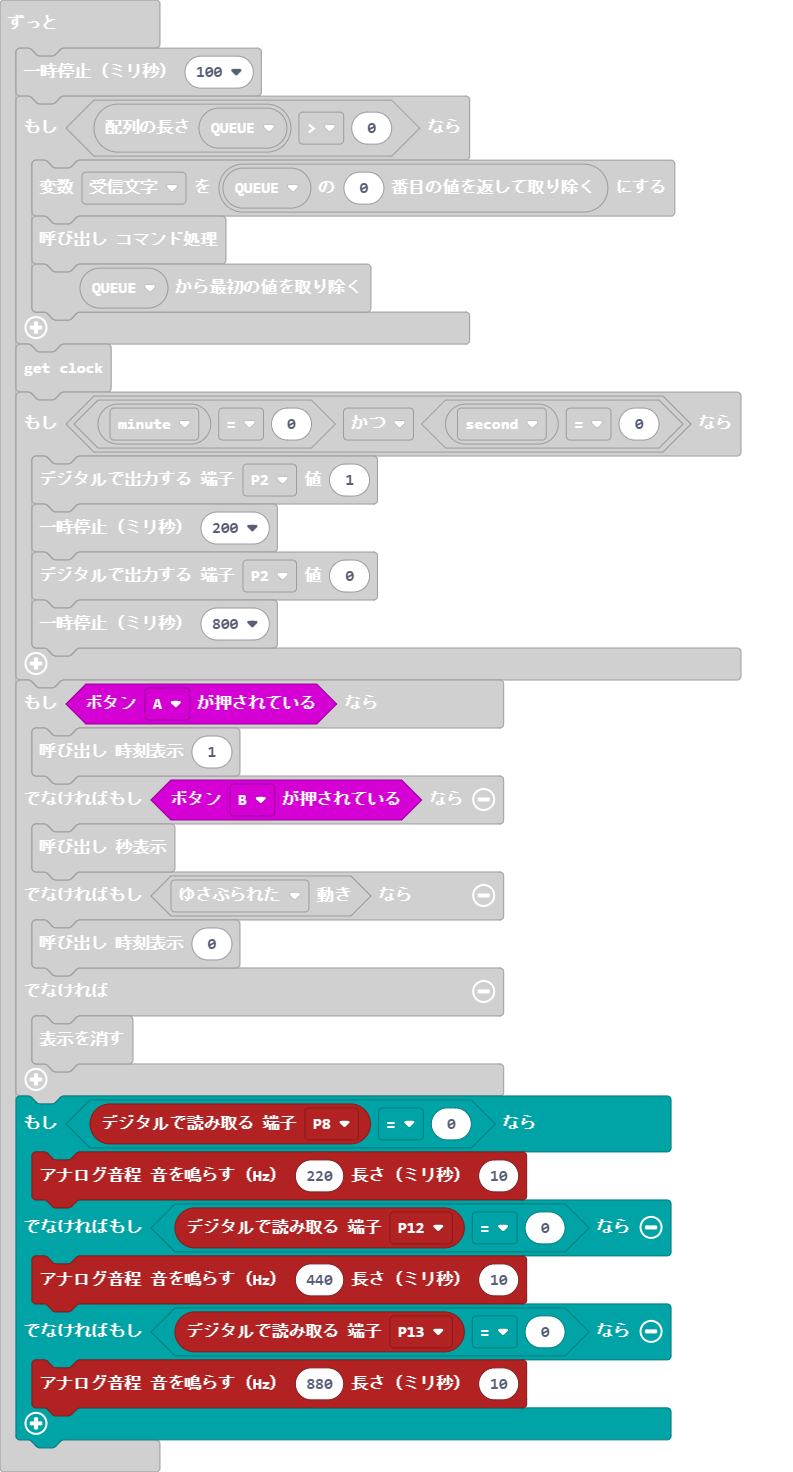
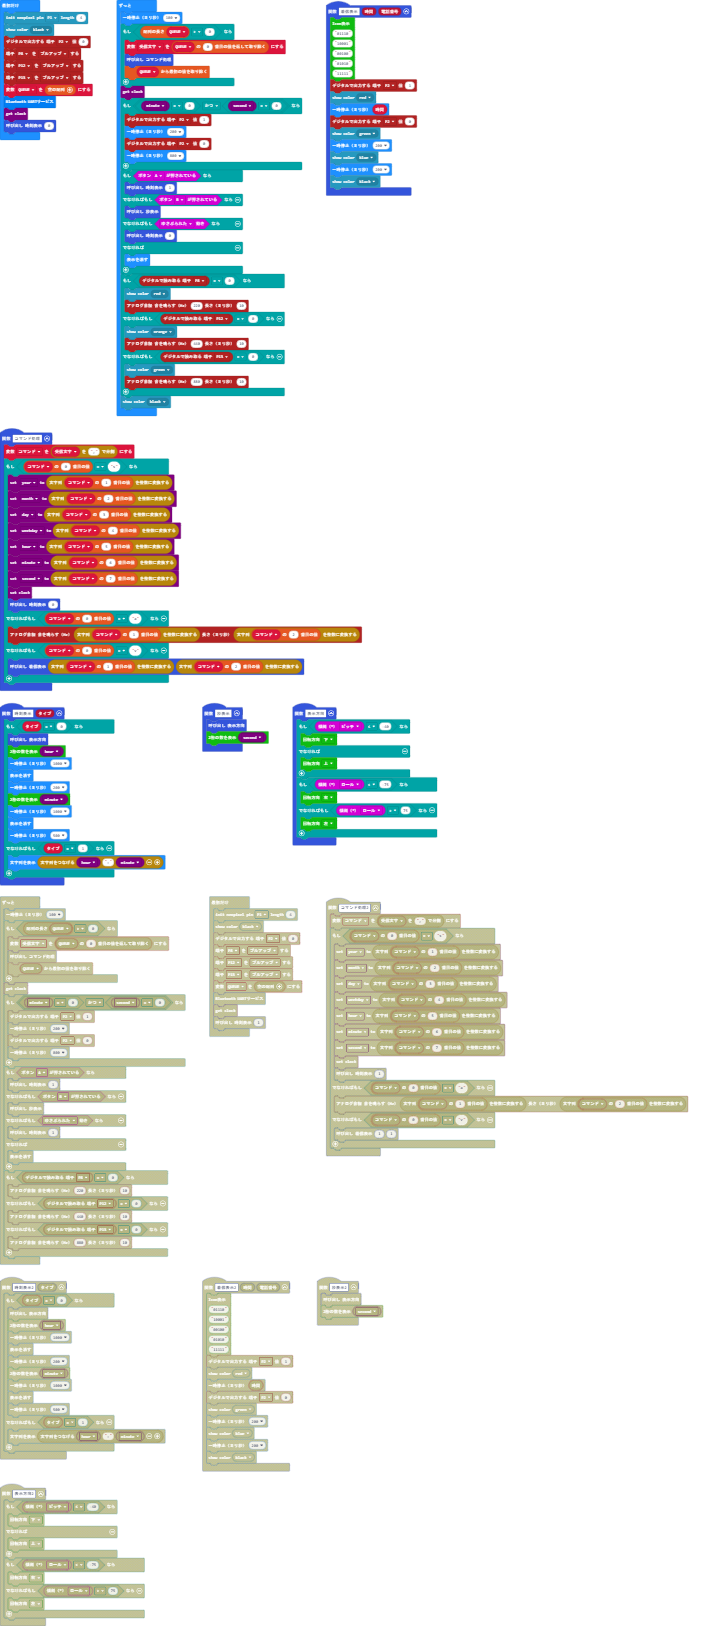
更新 pxt.json, main.blocks, main.ts

diff --git a/main.ts b/main.ts
@@ -22,14 +22,14 @@ bluetooth.onUartDataReceived(serial.delimiters(Delimiters.NewLine), function () 
 function コマンド処理 () {
     コマンド = 受信文字.split(",")
     if (コマンド[0] == "s") {
-        rtc.setClockData(clockData.year, parseInt(コマンド[1]))
-        rtc.setClockData(clockData.month, parseInt(コマンド[2]))
-        rtc.setClockData(clockData.day, parseInt(コマンド[3]))
-        rtc.setClockData(clockData.weekday, parseInt(コマンド[4]))
-        rtc.setClockData(clockData.hour, parseInt(コマンド[5]))
-        rtc.setClockData(clockData.minute, parseInt(コマンド[6]))
-        rtc.setClockData(clockData.second, parseInt(コマンド[7]))
-        rtc.setClock()
+        ds3231.setClockData(clockData.year, parseInt(コマンド[1]))
+        ds3231.setClockData(clockData.month, parseInt(コマンド[2]))
+        ds3231.setClockData(clockData.day, parseInt(コマンド[3]))
+        ds3231.setClockData(clockData.weekday, parseInt(コマンド[4]))
+        ds3231.setClockData(clockData.hour, parseInt(コマンド[5]))
+        ds3231.setClockData(clockData.minute, parseInt(コマンド[6]))
+        ds3231.setClockData(clockData.second, parseInt(コマンド[7]))
+        ds3231.setClock()
         時刻表示(0)
     } else if (コマンド[0] == "a") {
         pins.analogPitch(parseInt(コマンド[1]), parseInt(コマンド[2]))
@@ -51,21 +51,21 @@ function 表示方向 () {
 }
 function 秒表示 () {
     表示方向()
-    watchfont.showNumber2(rtc.getClockData(clockData.second))
+    watchfont.showNumber2(ds3231.getClockData(clockData.second))
 }
 function 時刻表示 (タイプ: number) {
     if (タイプ == 0) {
         表示方向()
-        watchfont.showNumber2(rtc.getClockData(clockData.hour))
+        watchfont.showNumber2(ds3231.getClockData(clockData.hour))
         basic.pause(1000)
         basic.clearScreen()
         basic.pause(200)
-        watchfont.showNumber2(rtc.getClockData(clockData.minute))
+        watchfont.showNumber2(ds3231.getClockData(clockData.minute))
         basic.pause(1000)
         basic.clearScreen()
         basic.pause(500)
     } else if (タイプ == 1) {
-        basic.showString("" + rtc.getClockData(clockData.hour) + ":" + rtc.getClockData(clockData.minute))
+        basic.showString("" + ds3231.getClockData(clockData.hour) + ":" + ds3231.getClockData(clockData.minute))
     }
 }
 let 受信文字 = ""
@@ -79,7 +79,7 @@ pins.setPull(DigitalPin.P12, PinPullMode.PullUp)
 pins.setPull(DigitalPin.P13, PinPullMode.PullUp)
 QUEUE = []
 bluetooth.startUartService()
-rtc.getClock()
+ds3231.getClock()
 時刻表示(0)
 basic.forever(function () {
     basic.pause(100)
@@ -88,8 +88,8 @@ basic.forever(function () {
         コマンド処理()
         QUEUE.shift()
     }
-    rtc.getClock()
-    if (rtc.getClockData(clockData.minute) == 0 && rtc.getClockData(clockData.second) == 0) {
+    ds3231.getClock()
+    if (ds3231.getClockData(clockData.minute) == 0 && ds3231.getClockData(clockData.second) == 0) {
         pins.digitalWritePin(DigitalPin.P2, 1)
         basic.pause(200)
         pins.digitalWritePin(DigitalPin.P2, 0)
@@ -105,10 +105,14 @@ basic.forever(function () {
         basic.clearScreen()
     }
     if (pins.digitalReadPin(DigitalPin.P8) == 0) {
+        neopixel.showColor(neopixel.colors(neopixel.Colors.Red))
         pins.analogPitch(220, 10)
     } else if (pins.digitalReadPin(DigitalPin.P12) == 0) {
+        neopixel.showColor(neopixel.colors(neopixel.Colors.Orange))
         pins.analogPitch(440, 10)
     } else if (pins.digitalReadPin(DigitalPin.P13) == 0) {
+        neopixel.showColor(neopixel.colors(neopixel.Colors.Green))
         pins.analogPitch(880, 10)
     }
+    neopixel.showColor(neopixel.colors(neopixel.Colors.Black))
 })
